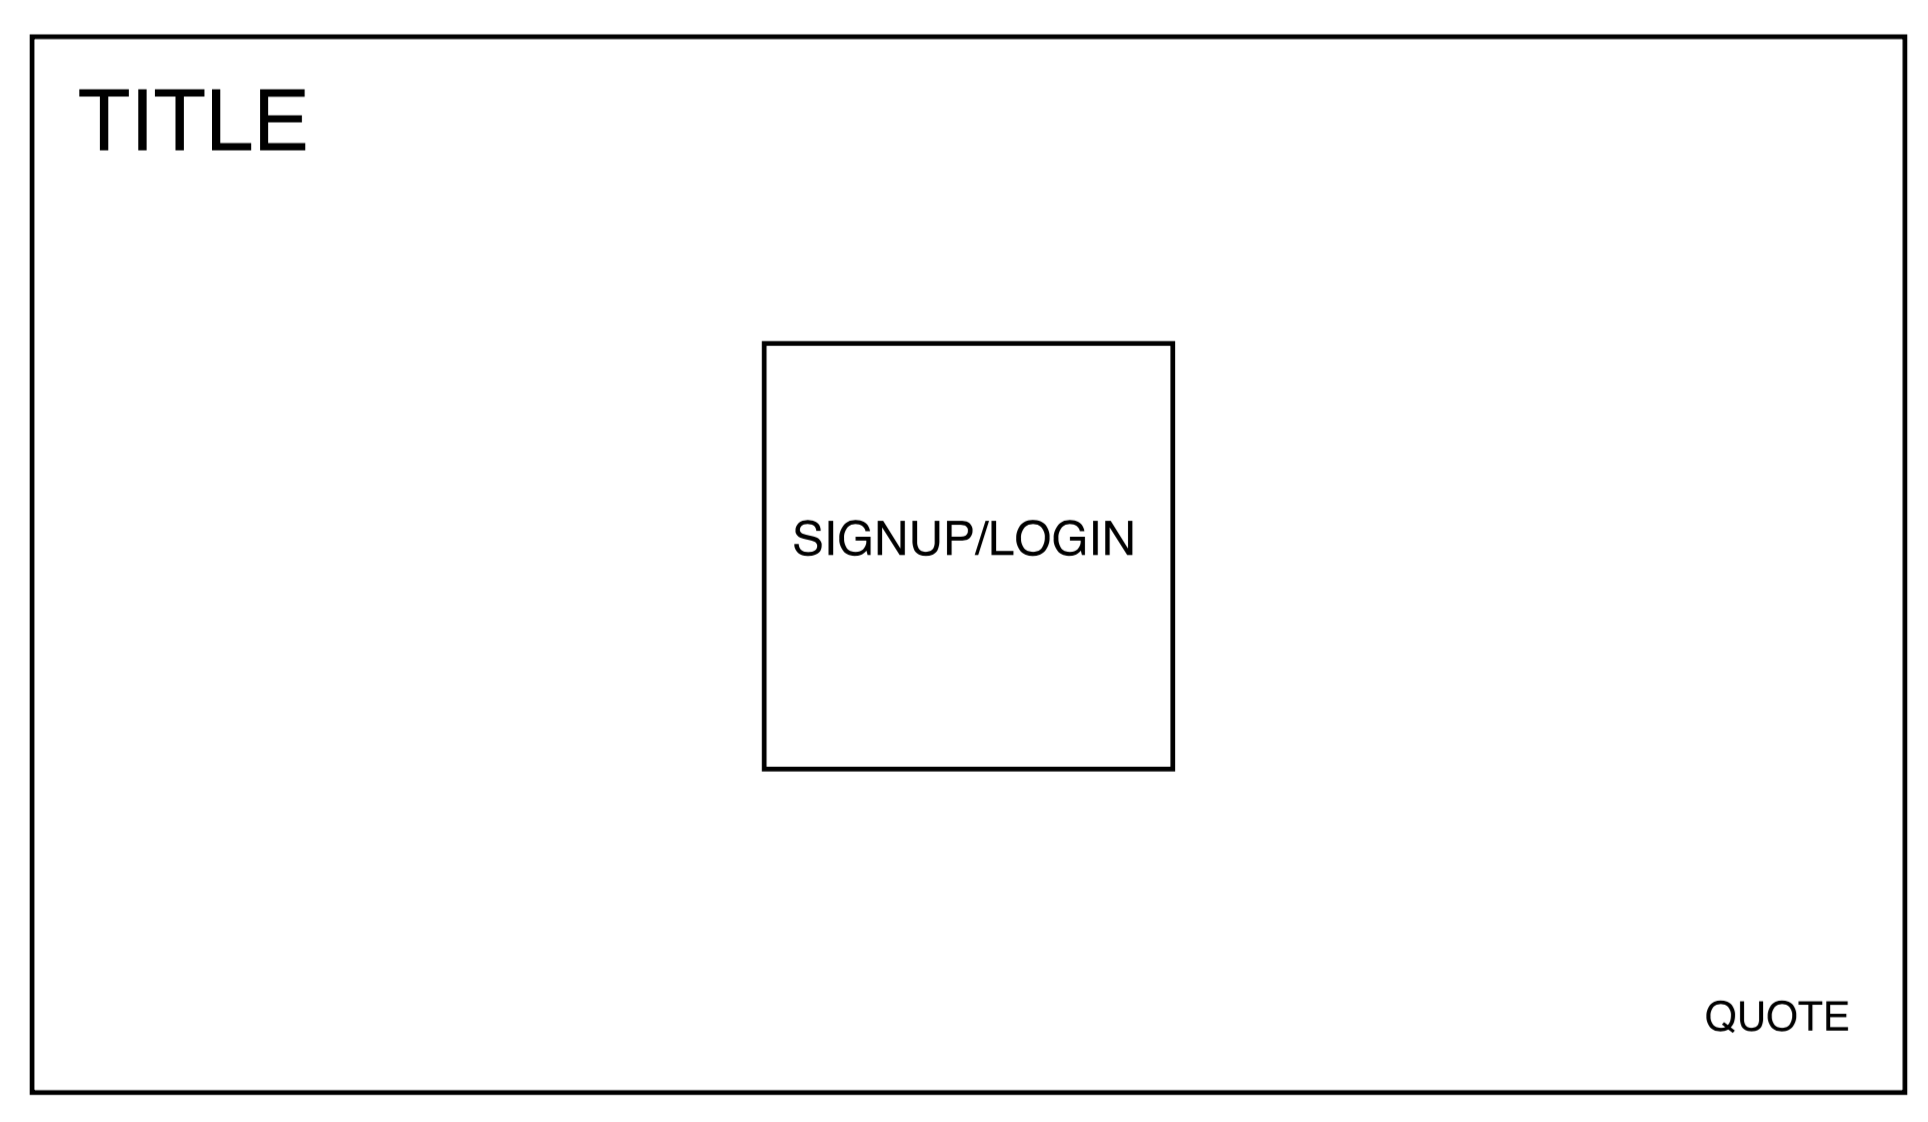
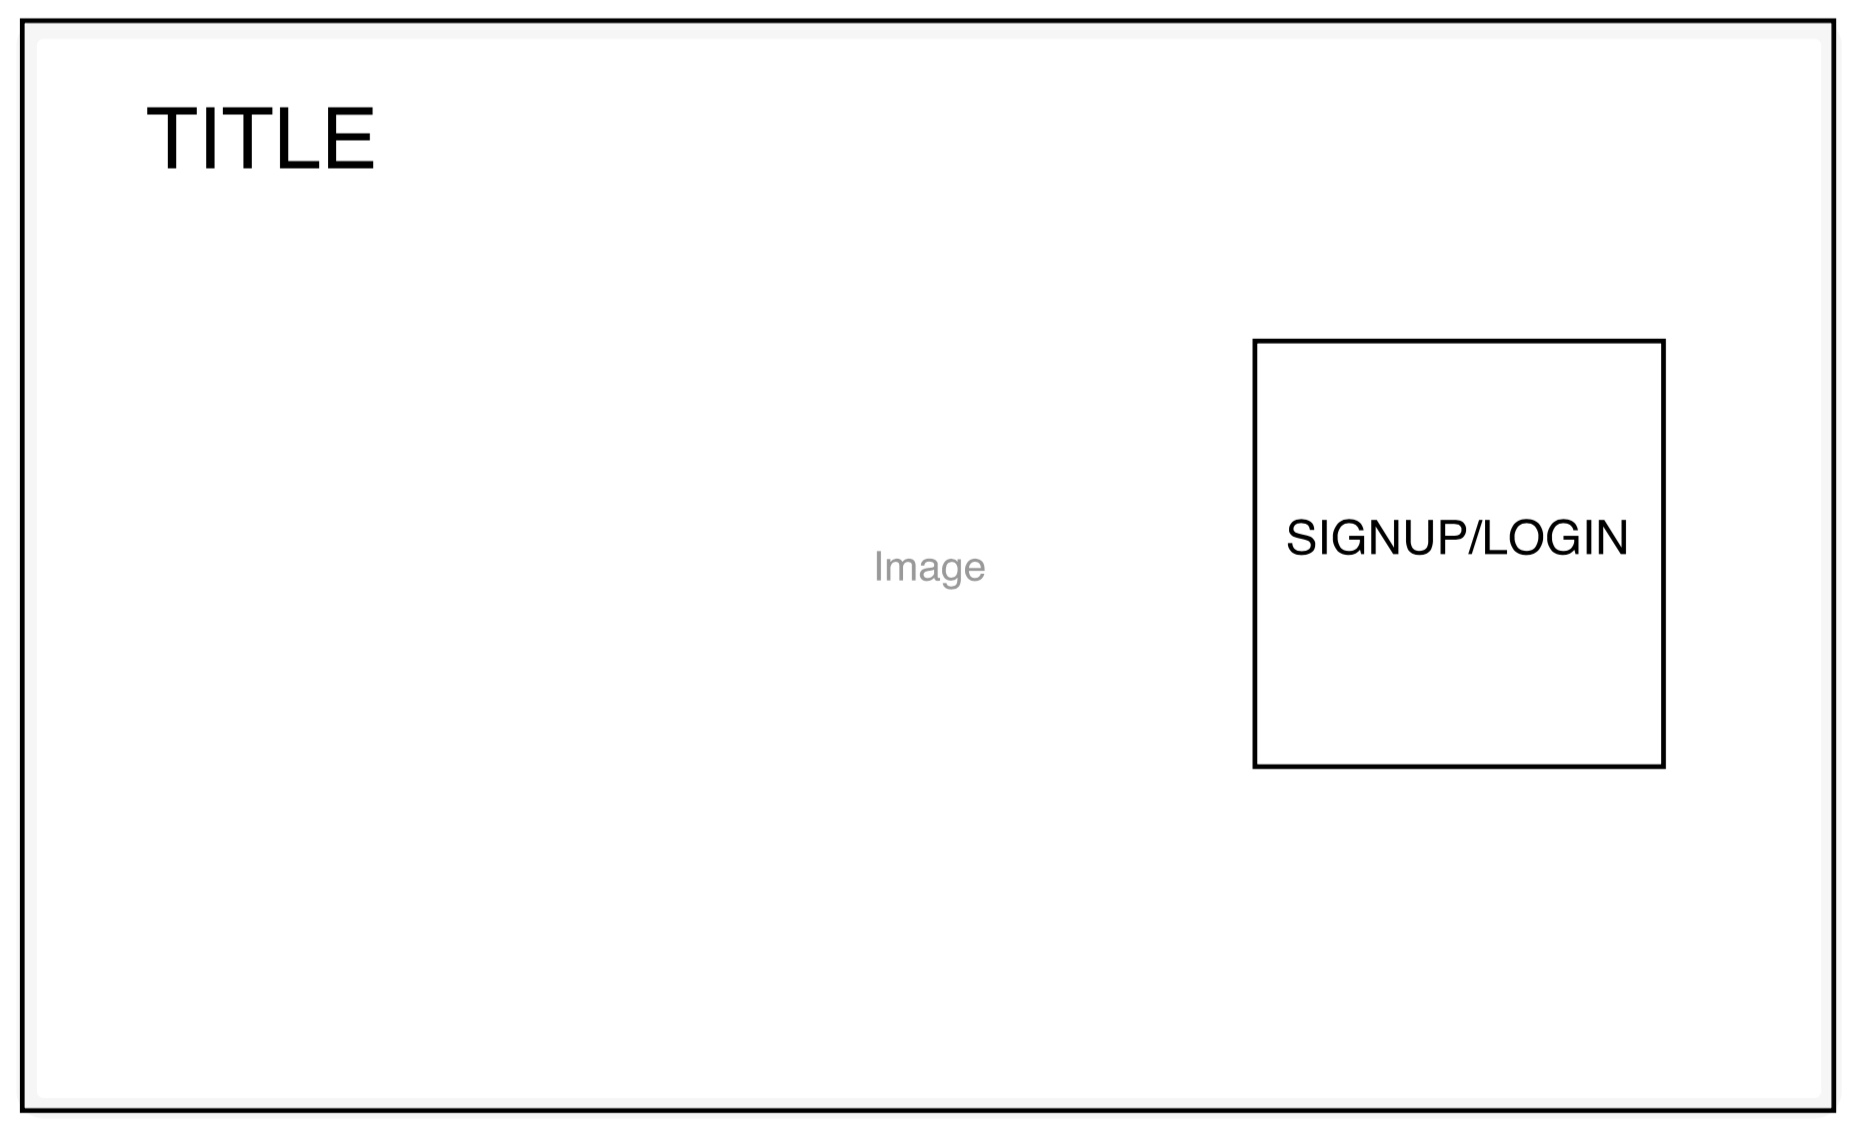
Complete full-stack project proposal

diff --git a/app/assets/stylesheets/components/app.scss b/app/assets/stylesheets/components/app.scss
@@ -4,7 +4,7 @@ $sans: 'Open Sans', sans-serif !global;
   height: 100%;
   background-size: cover;
   background-position: center;
-  background-image: url("https://source.unsplash.com/AumHYHRn2AM/2880x1920");
+  background-image: url("https://source.unsplash.com/oMAz8npl-dc/2880x1920");
 
   position: relative;
   font-family: $sans;
@@ -17,24 +17,12 @@ $sans: 'Open Sans', sans-serif !global;
   left: 2%;
   top: 2%;
   display: inline-block;
-}
 
-#chou-down h1 {
   text-transform: uppercase;
-  font-size: 350%;
+  font-size: 300%;
   letter-spacing: 4px;
   font-weight: bold;
-}
-
-// quote
-
-#woolf {
-  position: absolute;
-  right: 2%;
-  bottom: 2%;
-  display: inline-block;
-  text-align: right;
-  font-weight: bolder;
+  color: white;
 }
 
 // form
@@ -42,14 +30,15 @@ $sans: 'Open Sans', sans-serif !global;
 #session-form {
   position: absolute;
   display: inline-block;
-  right: 39%;
-  top: 30%;
+  right: 0%;
+  top: 25%;
 
   color: white;
   background-color: rgba(0, 0, 0, .7);
   text-align: center;
   border-radius: 5%;
   padding: 20px 50px;
+  margin-right: 10%;
 }
 
 #session-form h1 {

diff --git a/frontend/components/app.jsx b/frontend/components/app.jsx
@@ -7,13 +7,6 @@ const App = ({ children }) => (
       <h1>chou down</h1>
     </section>
     <SessionFormContainer />
-    <section id="woolf">
-      <p>one cannot think well, </p>
-      <p>love well, </p>
-      <p>sleep well, </p>
-      <p>if one has not dined well</p>
-      <p>- virginia woolf</p>
-    </section>
     { children }
   </div>
 );

diff --git a/docs/schema.md b/docs/schema.md
@@ -1,0 +1,55 @@
+# Schema Information
+
+## users
+column name     | data type | details
+----------------|-----------|-----------------------
+id              | integer   | not null, primary key
+username        | string    | not null, indexed, unique
+password_digest | string    | not null
+session_token   | string    | not null, indexed, unique
+
+## businesses
+column name    | data type | details
+---------------|-----------|-----------------------
+id             | integer   | not null, primary key
+user_id        | integer   | not null, foreign key (references users), indexed
+name           | string    | not null
+street_address | string    | not null
+city           | string    | not null
+state          | string    | not null
+zip            | string    | not null
+price          | integer   | not null, inclusive [1, 2, 3]
+image_url      | string    | not null
+website_url    | string    |
+
+## reviews
+column name | data type | details
+------------|-----------|-----------------------
+id          | integer   | not null, primary key
+business_id | integer   | not null, foreign key (references businesses), indexed
+user_id     | integer   | not null, foreign key (references users), indexed
+review_text | text      | not null
+rating      | integer   | not null, inclusive [1, 2, 3, 4, 5]
+
+## photos
+column name | data type | details
+------------|-----------|-----------------------
+id          | integer   | not null, primary key
+user_id     | integer   | not null, foreign key (references user), indexed
+business_id | integer   | not null, foreign key (references businesses), indexed
+review_id   | integer   | foreign key (references reviews), indexed
+url         | string    | not null
+caption     | string    |
+
+## tags
+column name | data type | details
+------------|-----------|-----------------------
+id          | integer   | not null, primary key
+name        | string    | not null
+
+## taggings
+column name | data type | details
+------------|-----------|-----------------------
+id          | integer   | not null, primary key
+business_id | integer   | not null, foreign key (references businesses), indexed, unique [tag_id]
+tag_id      | integer   | not null, foreign key (references tags), indexed

diff --git a/docs/README.md b/docs/README.md
@@ -37,32 +37,32 @@ sufficient CSS styling:
 
 ## Implementation Timeline
 
-### Phase 1: Backend setup and Front End User Authentication (2 days)
+### Phase 1: Backend Setup and Front End User Authentication (2 days | W8D4 18:00)
 
-**Objective:** Functioning rails project with front-end Authentication
+**Objective:** To create a functioning rails project with front-end Authentication
 
-### Phase 2: Notes Model, API, and components (2 days)
+### Phase 2: Models (1 day | W8D5 18:00)
 
-**Objective:** Notes can be created, read, edited and destroyed through
-the API.
+**Objective:** To build complete business, review, photo, and tag models, controllers, and views (Jbuilder)
 
-### Phase 3: Notebooks (2 day)
+### Phase 3: Home Page (2 day | Weekend )
 
-**Objective:** Notes belong to Notebooks that can be created, read, edited and destroyed through the API.
+**Objective:** To set up a functioning home page with links to different cuisines
 
-### Phase 4: Tags (1 days)
+### Phase 4: Business Search (2 days | W9D2 18:00)
 
-**Objective:** Notes can be tagged with multiple tags, and tags are searchable.
+**Objective:** To allow the user to search for businesses with location and cuisine, to set up a functioning search results page with links to different businesses, and to drop locations on a map
 
-### Phase 5: Allow Complex Styling in Notes (1 days, W2 Th 6pm)
+### Phase 5: Business Detail (1 day)
 
-**objective:** Allow rich text editing of notes.
+**objective:** To set up a page with business details
 
-### Phase 6: - Pagination / infinite scroll for Notes Index (1 day, W2 F 6pm)
+### Phase 6: Reviews (2 day, W2D5 18:00)
 
-**objective:** Add infinite scroll to Notes Index
+**objective:** To allow the user to submit a review and view other reviews
 
 ### Bonus Features (TBD)
+- [ ] Add businesses
 - [ ] Mark reviews as funny/cool/etc.
 - [ ] Personal profiles
 - [ ] Friends

diff --git a/docs/api-endpoints.md b/docs/api-endpoints.md
@@ -1,0 +1,56 @@
+# API Endpoints
+
+## HTML API
+
+### Root
+
+- `GET /` - loads React web app
+
+## JSON API
+
+### Users
+
+- `POST /api/users`
+
+### Session
+
+- `POST /api/session`
+- `DELETE /api/session`
+
+### Businesses
+
+- `GET /api/businesses`
+  - will accept a query string
+- `POST /api/businesses`
+- `GET /api/businesses/:id`
+- `PATCH /api/businesses/:id`
+- `DELETE /api/businesses/:id`
+
+### Reviews
+
+- `GET /api/reviews`
+- `POST /api/businesses/:business_id/reviews`
+- `GET /api/reviews/:id`
+- `PATCH /api/reviews/:id`
+- `DELETE /api/reviews/:id`
+- `GET /api/businesses/:business_id/reviews`
+  - index of all reviews for a business
+
+### Photos
+
+- `GET /api/photos`
+- `POST /api/businesses/:business_id/photos`
+- `GET /api/photos/:id`
+- `DELETE /api/photos/:id`
+- `GET /api/businesses/:id/photos`
+  - index of all photos for a business
+- `GET /api/reviews/:id/photos`
+  - index of all photos for a review
+
+### Tags
+
+- `GET /api/tags`
+- `POST /api/businesses/:business_id/tags`
+- `DELETE /api/businesses/:business_id/tags/:id`
+- `GET /api/businesses/:business_id/tags`
+  - index of all tags for a business

diff --git a/docs/sample-state.md b/docs/sample-state.md
@@ -1,0 +1,49 @@
+```js
+
+{
+  session: {
+    currentUser: {
+      id: 1,
+      username: "app-academy"
+    },
+    errors: []
+  },
+  businesses: {
+    1: {
+      id: 1,
+      name: "Tartine",
+      street_address: "123 Main Street",
+      city: "San Francisco",
+      state: "CA",
+      zip: "99999",
+      price: 1,
+      image_url: "example.com/xyz",
+      website_url: "tartinebakery.com",
+      reviews: [
+        {
+          id: 1,
+          user_id: 1,
+          review_text: "best bread ever",
+          rating: 5,
+          photos: [
+            {
+              id: 1,
+              url: "example.com/xyz"
+            }
+          ]
+        }
+      ],
+      photos: [
+        {
+          id: 10,
+          user_id: 5,
+          url: "example.com/xyz",
+          caption: "yum"
+        }
+      ],
+      tags: ["bakery", "french"]
+    }
+  }
+}
+
+```

diff --git a/docs/component-hierarchy.md b/docs/component-hierarchy.md
@@ -1,0 +1,30 @@
+## Component Hierarchy
+
+**SessionFormContainer**
+ - SessionForm
+
+**Header**
+
+**HomeContainer**
+- HomeIndex
+    * HomeIndexItem
+
+**BusinessIndexContainer**
+- BusinessIndex
+    * BusinessIndexItem
+    * Map
+
+**BusinessDetailContainer**
+- BusinessDetail
+  * ReviewList
+    + ReviewListItem
+    + ReviewForm
+
+## Routes
+
+|Path   | Component   |
+|-------|-------------|
+| "/" | "SessionFormContainer" |
+| "/home" | "HomeContainer" |
+| "/businesses-search" | "BusinessIndexContainer" |
+| "/businesses/:businessId" | "BusinessDetailContainer" |
